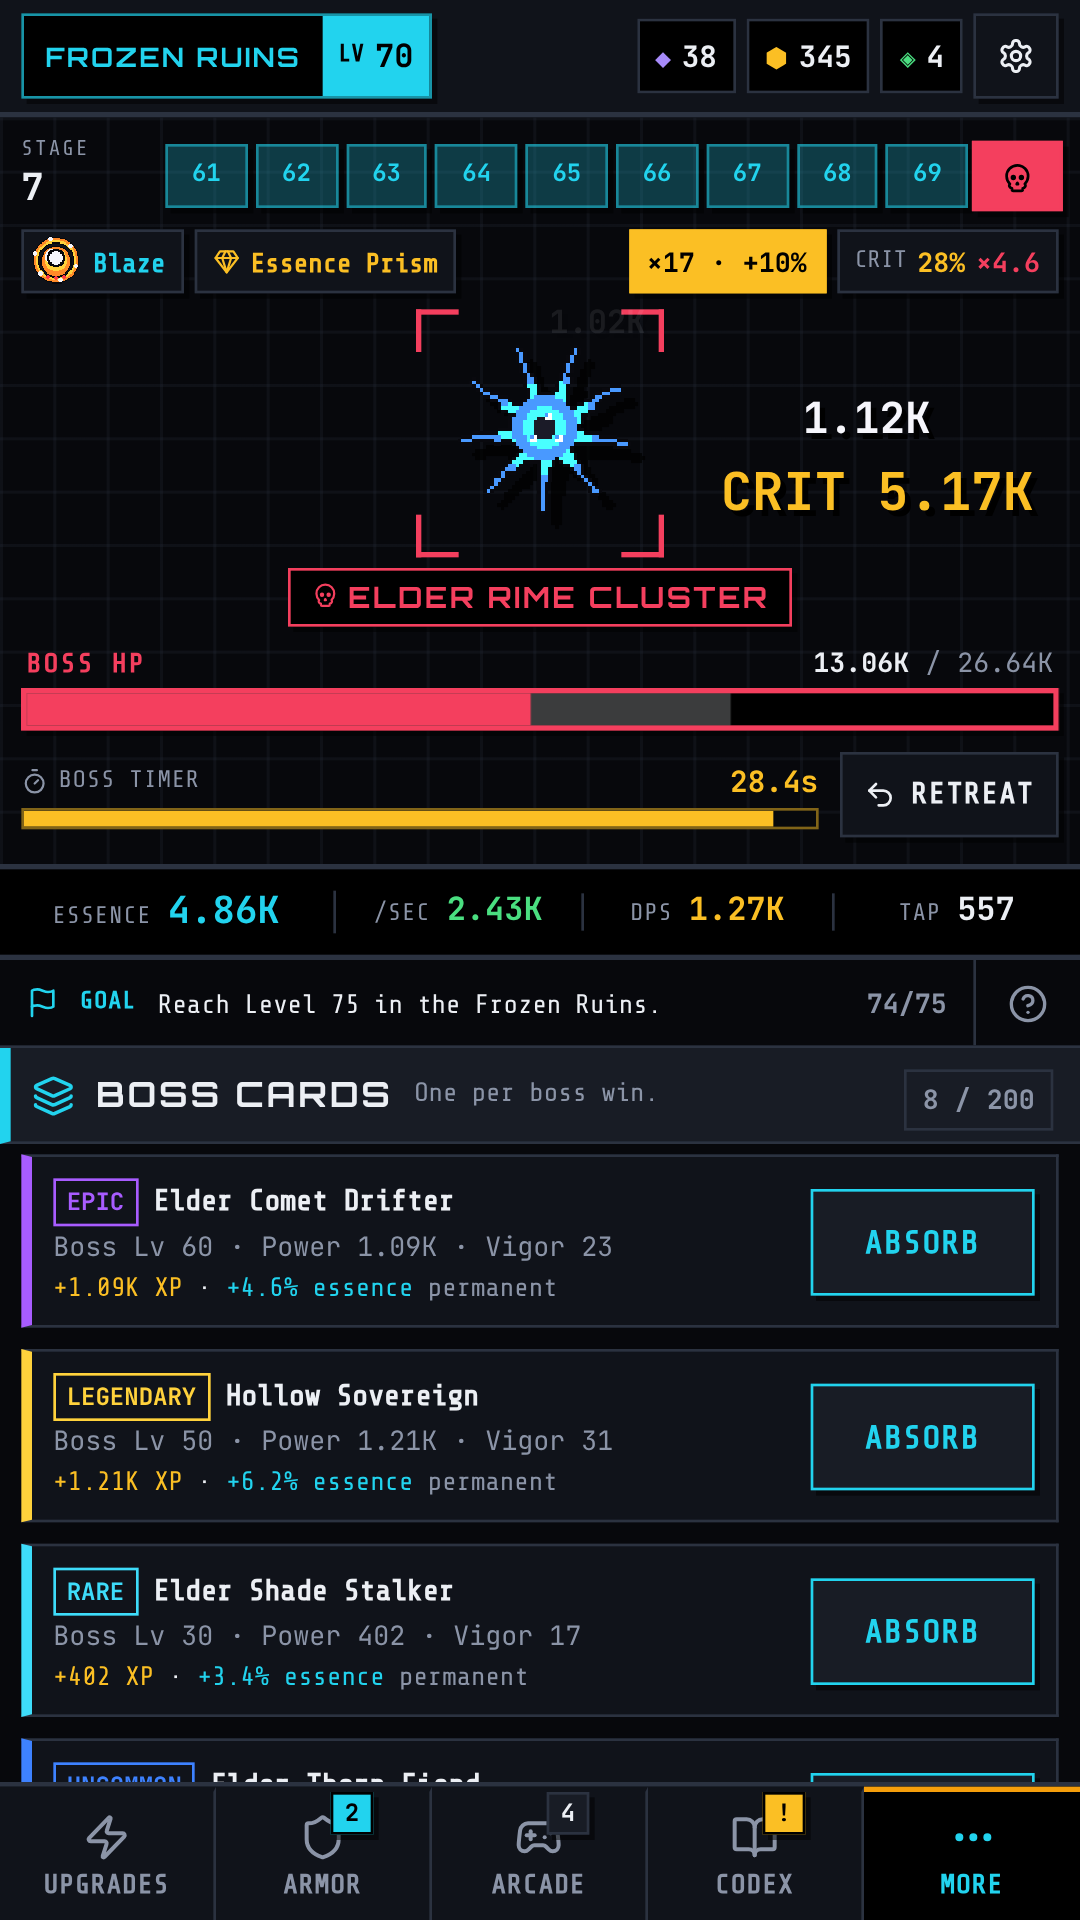
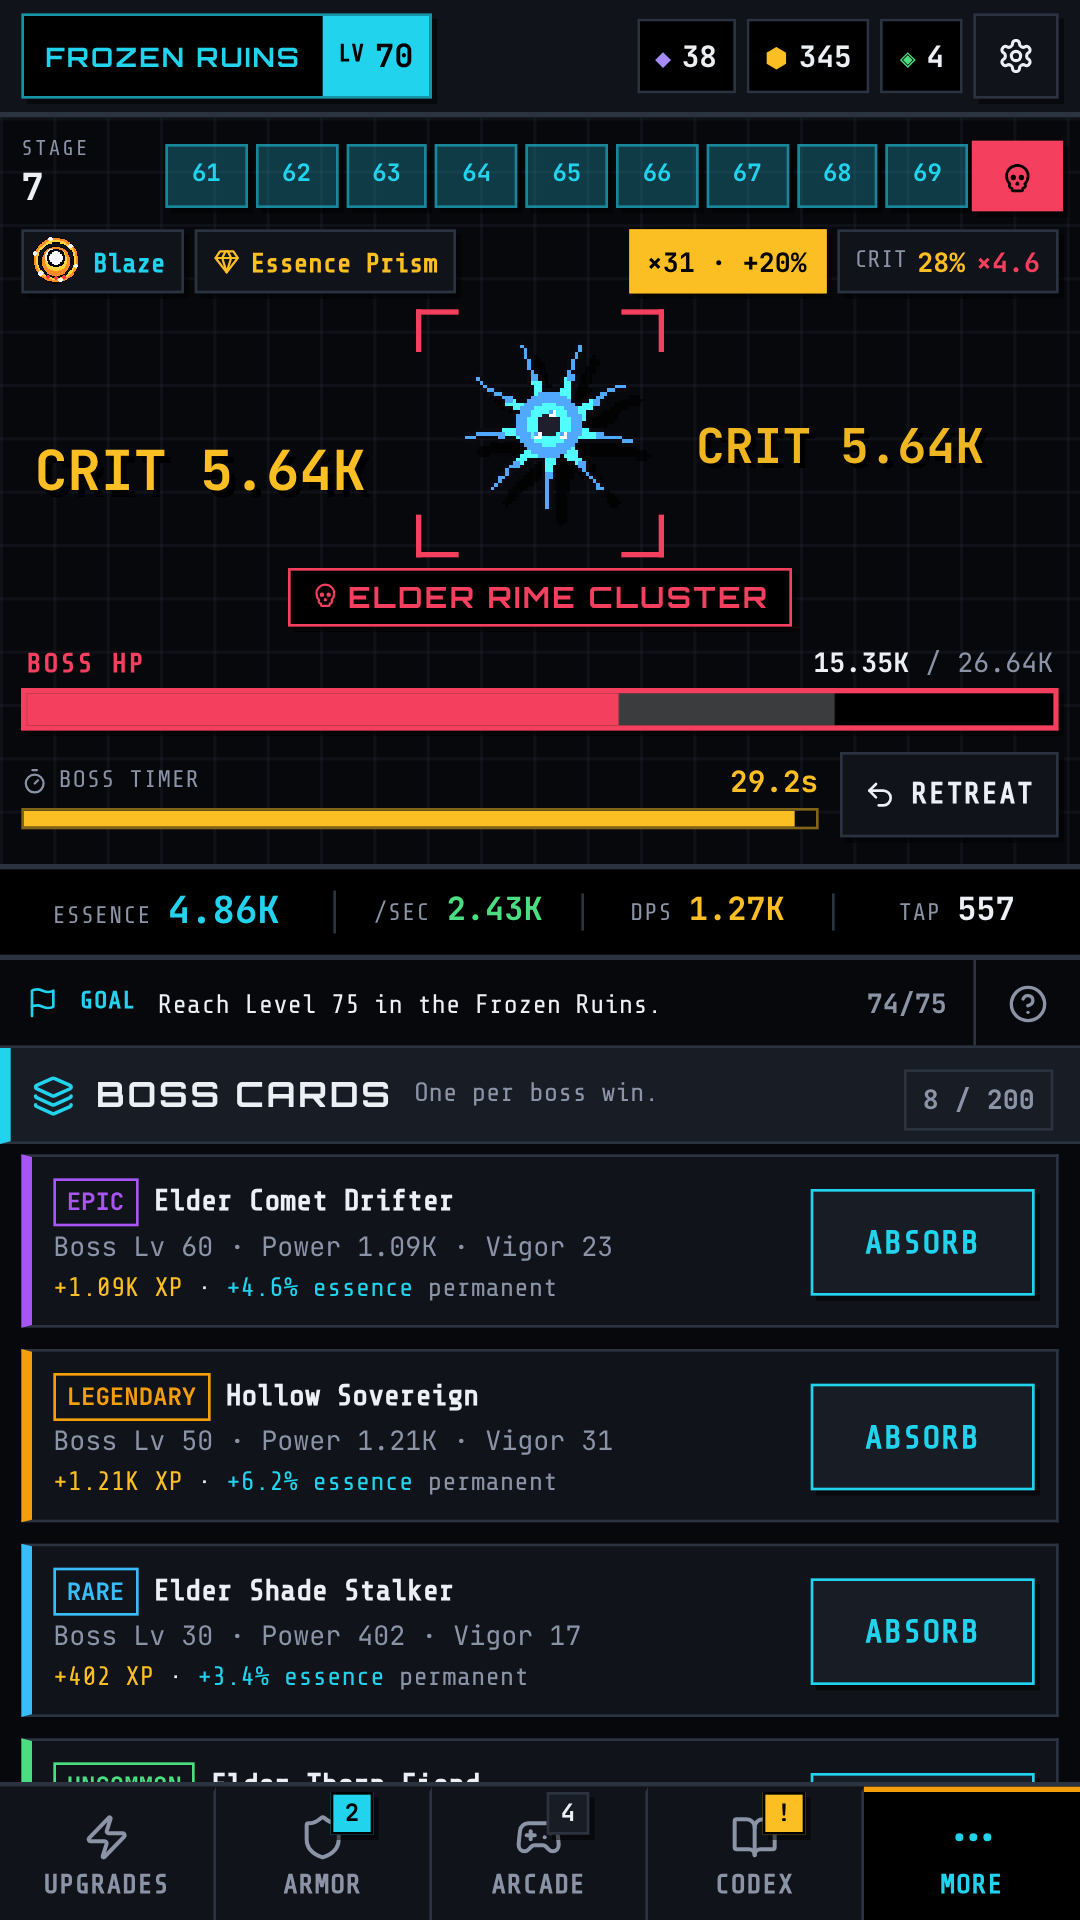
Boss-card rarity colours use the r0-r4 tokens
CardsCollection painted each card's rarity tag and stripe from hex in
CARD_RARITIES (tierColor) through inline styles, so a Legendary card was
lemon #FFD23C while Legendary gear is the amber r3 token, and the two sat in
consecutive store screenshots. Card tiers now take the gear token of the same
name (common r0, rare r1, epic r2, legendary r3); Uncommon, which gear lacks,
takes the theme's green. The tag still names the tier, so colour is never the
only signal.

tierColor is removed from CARD_RARITIES and CardRarityDefinition, and the
unused hex `color` from the gear RARITIES and RarityDefinition, so the theme
tokens are the only rarity colours. CLAUDE.md and the architecture notes say
cards follow the rule too. The boss screenshot is re-captured.

Claude-Session: https://claude.ai/code/session_01P6fPmES9gVtvWhuhyP29iv

diff --git a/src/components/CardsCollection.tsx b/src/components/CardsCollection.tsx
@@ -42,21 +42,29 @@ function selectBlock(s: GameState): Block {
 
 const pct = (v: number) => formatPercent(v, 1);
 
+/**
+ * A card tier's colour: the gear rarity token of the same name (src/index.css), so a Legendary card
+ * and Legendary gear match. Gear has no Uncommon; it takes the theme's green. Written out in full so
+ * Tailwind generates every class.
+ */
+const CARD_TONE: Record<string, { stripe: string; tag: string }> = {
+  common: { stripe: 'border-l-r0', tag: 'text-r0 border-r0' },
+  uncommon: { stripe: 'border-l-toxic', tag: 'text-toxic border-toxic' },
+  rare: { stripe: 'border-l-r1', tag: 'text-r1 border-r1' },
+  epic: { stripe: 'border-l-r2', tag: 'text-r2 border-r2' },
+  legendary: { stripe: 'border-l-r3', tag: 'text-r3 border-r3' },
+};
+
 const CardRow: React.FC<{ card: Card; block: Block; noun: string; onAbsorb: (card: Card) => void }> = React.memo(
   ({ card, block, noun, onAbsorb }) => {
     const rarity = CARD_RARITIES.find((r) => r.id === card.rarity);
-    const color = rarity?.tierColor;
+    const tone = CARD_TONE[card.rarity] ?? CARD_TONE.common;
     const rarityName = rarity?.displayName ?? card.rarity;
     return (
-      <div className="bg-panel border border-line border-l-4 p-2 flex items-center gap-2" style={color ? { borderLeftColor: color } : undefined}>
+      <div className={`bg-panel border border-line border-l-4 ${tone.stripe} p-2 flex items-center gap-2`}>
         <div className="flex-1 min-w-0 flex flex-col gap-0.5">
           <div className="flex items-center gap-1.5 min-w-0">
-            <span
-              className="shrink-0 text-[9px] font-mono-code font-black uppercase border px-1 leading-4"
-              style={color ? { color, borderColor: color } : undefined}
-            >
-              {rarityName}
-            </span>
+            <span className={`shrink-0 text-[9px] font-mono-code font-black uppercase border px-1 leading-4 ${tone.tag}`}>{rarityName}</span>
             <span className="text-[11px] font-tech font-bold text-ink truncate">{card.bossName}</span>
           </div>
           <span className="text-[10px] font-mono-code text-dim leading-tight">

diff --git a/src/data/definitions.ts b/src/data/definitions.ts
@@ -247,11 +247,11 @@ export const AFFIXES: AffixDefinition[] = [
 
 /** Item rarities. The pip count (affixes) is rarity + 1, so the word and the pips agree. */
 export const RARITIES: RarityDefinition[] = [
-  { id: 0, displayName: 'Common', color: '#C8CDD8', salvageYield: 2 },
-  { id: 1, displayName: 'Rare', color: '#36D9FF', salvageYield: 5 },
-  { id: 2, displayName: 'Epic', color: '#A78BFA', salvageYield: 12 },
-  { id: 3, displayName: 'Legendary', color: '#FFC857', salvageYield: 30 },
-  { id: 4, displayName: 'Mythic', color: '#FF4268', salvageYield: 75 },
+  { id: 0, displayName: 'Common', salvageYield: 2 },
+  { id: 1, displayName: 'Rare', salvageYield: 5 },
+  { id: 2, displayName: 'Epic', salvageYield: 12 },
+  { id: 3, displayName: 'Legendary', salvageYield: 30 },
+  { id: 4, displayName: 'Mythic', salvageYield: 75 },
 ];
 
 /** Affix values are multiplied by this per rarity tier. */
@@ -275,11 +275,11 @@ export function getForgeCost(level: number): number {
 }
 
 export const CARD_RARITIES: CardRarityDefinition[] = [
-  { id: 'common', displayName: 'Common', tierColor: '#C8C8DA', potency: 1.0, dropWeight: 0.65 },
-  { id: 'uncommon', displayName: 'Uncommon', tierColor: '#3E82FF', potency: 1.3, dropWeight: 0.22 },
-  { id: 'rare', displayName: 'Rare', tierColor: '#3EDCFA', potency: 1.7, dropWeight: 0.09 },
-  { id: 'epic', displayName: 'Epic', tierColor: '#A85CFF', potency: 2.2, dropWeight: 0.035 },
-  { id: 'legendary', displayName: 'Legendary', tierColor: '#FFD23C', potency: 3.0, dropWeight: 0.005 },
+  { id: 'common', displayName: 'Common', potency: 1.0, dropWeight: 0.65 },
+  { id: 'uncommon', displayName: 'Uncommon', potency: 1.3, dropWeight: 0.22 },
+  { id: 'rare', displayName: 'Rare', potency: 1.7, dropWeight: 0.09 },
+  { id: 'epic', displayName: 'Epic', potency: 2.2, dropWeight: 0.035 },
+  { id: 'legendary', displayName: 'Legendary', potency: 3.0, dropWeight: 0.005 },
 ];
 
 export const RELICS: RelicDefinition[] = [

diff --git a/src/types/game.ts b/src/types/game.ts
@@ -62,10 +62,10 @@ export interface Item {
   seen?: boolean;
 }
 
+/** A boss-card tier. Its colour is a theme token by name, in CardsCollection, not data. */
 export interface CardRarityDefinition {
   id: string;
   displayName: string;
-  tierColor: string;
   potency: number;
   dropWeight: number;
 }
@@ -97,10 +97,10 @@ export interface OwnedRelic {
   seen: boolean;
 }
 
+/** A gear rarity. Its colour is the theme token r0–r4 at the same index (src/index.css), not data. */
 export interface RarityDefinition {
   id: ItemRarity;
   displayName: string;
-  color: string;
   salvageYield: number;
 }
 

diff --git a/CLAUDE.md b/CLAUDE.md
@@ -42,8 +42,9 @@ Keep it to these. Add to the right one instead of starting a new document.
 - **Player-facing numbers** go through `src/utils/numberFormat.ts`.
 - **Colours** are the theme tokens in `src/index.css` as Tailwind classes
   (`bg-panel`, `text-neon`, `border-line` ...), never hex in a component.
-  Item rarity uses the `r0`–`r4` tokens (`border-r3`, `bg-r3/15`); trail
-  colours are data.
+  Rarity uses the `r0`–`r4` tokens (`border-r3`, `bg-r3/15`), gear and boss
+  cards alike: a tier name is one colour everywhere (a card's Uncommon, which
+  gear lacks, is `toxic`). Trail colours are data.
 - **The look is a native game, not a web page:** flat fills, one-pixel borders
   and hard offset shadows (`shadow-hard`, `shadow-hard-lg`). No gradients,
   glows, blur or rounded pills. Buttons are sharp rectangles that sink when

diff --git a/docs/ARCHITECTURE.md b/docs/ARCHITECTURE.md
@@ -418,7 +418,8 @@ plus an icon in `OnboardingManager`; give it a `known` test so veterans skip it.
   tab and the nav). Only the active tab's `TabBody` scrolls, and the deck is
   CSS-contained so its redraws stay inside it. The native banner gets its own
   strip below the frame.
-- The look lives in `src/index.css`: theme tokens, rarity tokens `r0`–`r4`,
+- The look lives in `src/index.css`: theme tokens, rarity tokens `r0`–`r4`
+  (gear and boss cards, matched by tier name),
   hard shadows, and the `.hud-btn*` button classes with their sink-on-press.
   Minigames run inside a handheld frame (`src/components/minigames/MinigameHost.tsx`).
 - The layout is a single portrait column (max width `max-w-md`) that respects
